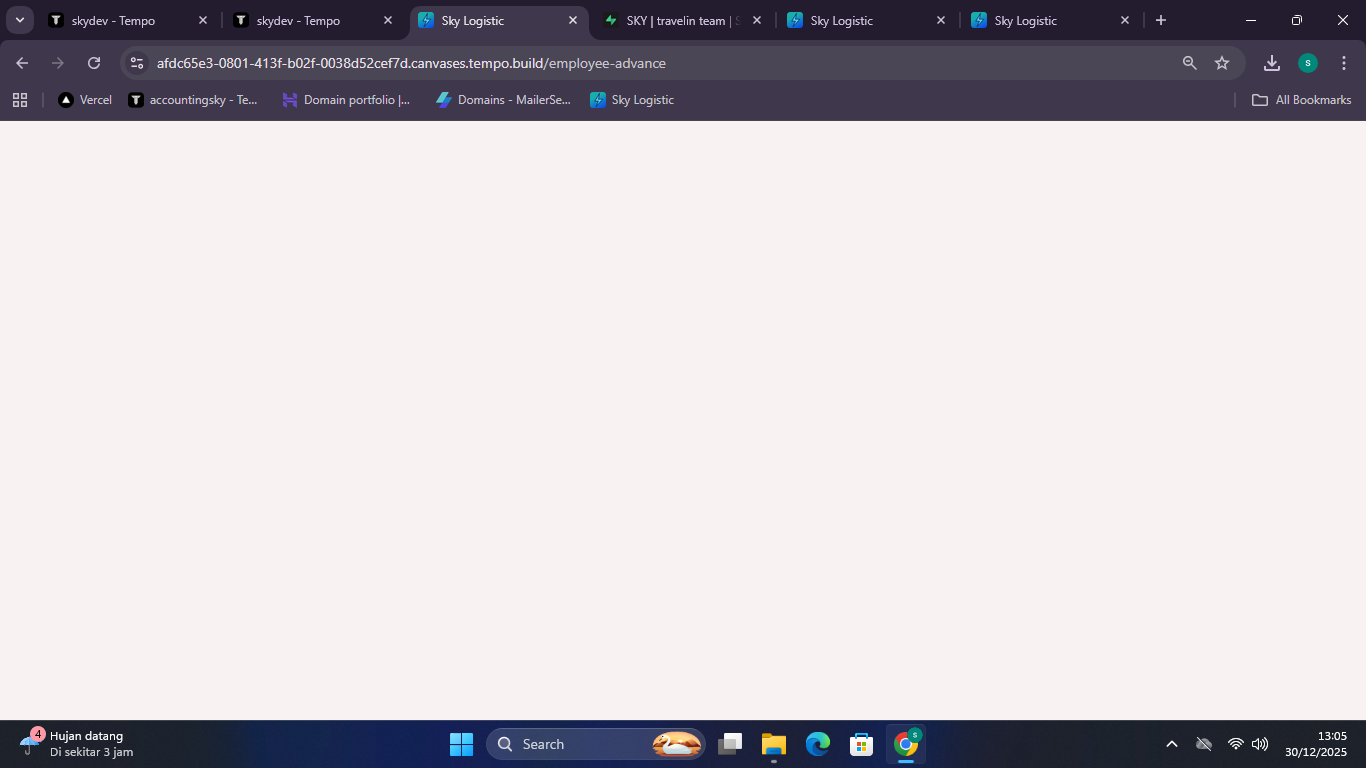
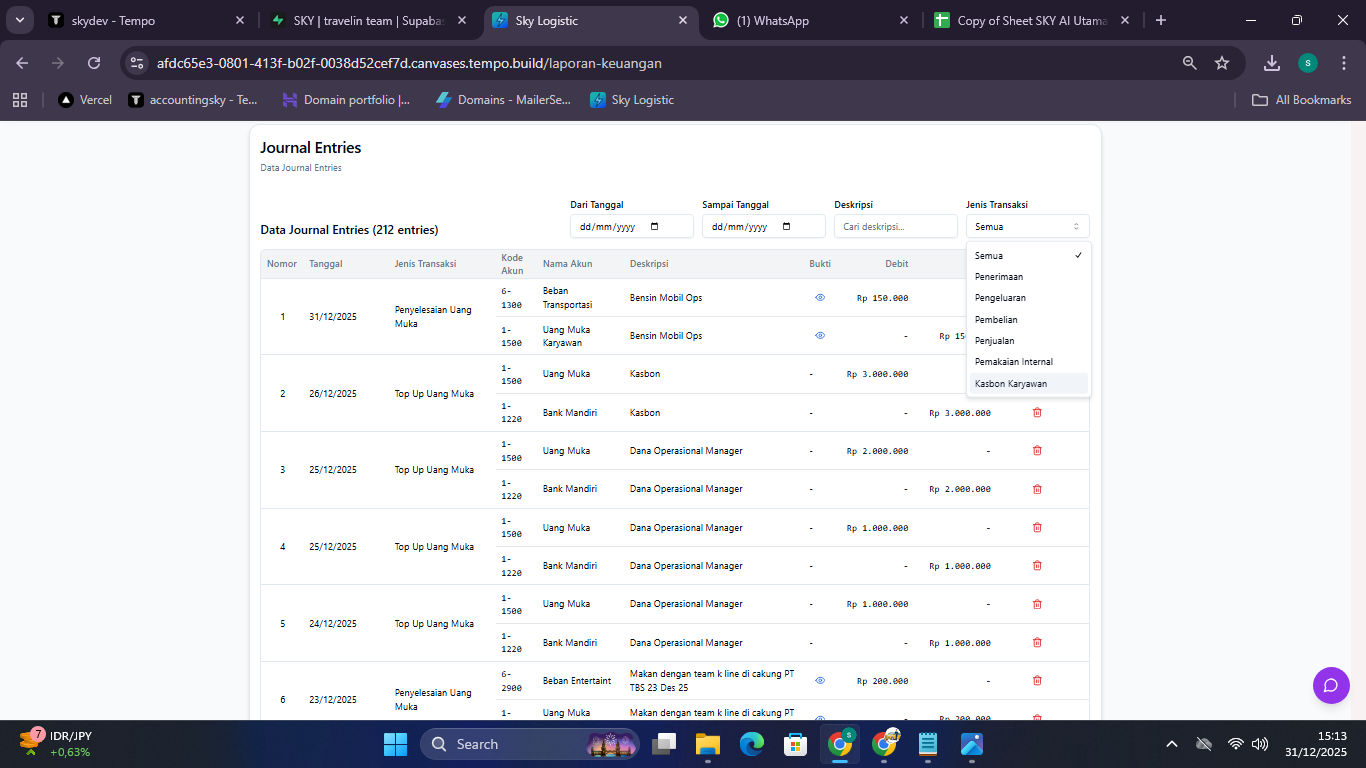
Rafi 31/12/2025 15:17

diff --git a/src/components/IntegratedFinancialReport.tsx b/src/components/IntegratedFinancialReport.tsx
@@ -101,6 +101,7 @@ export default function IntegratedFinancialReport() {
   const [journalStartDate, setJournalStartDate] = useState<string>("");
   const [journalEndDate, setJournalEndDate] = useState<string>("");
   const [journalDescriptionQuery, setJournalDescriptionQuery] = useState<string>("");
+  const [journalJenisTransaksi, setJournalJenisTransaksi] = useState<string>("ALL");
   const navigate = useNavigate();
 
   useEffect(() => {
@@ -116,7 +117,7 @@ export default function IntegratedFinancialReport() {
   useEffect(() => {
     fetchJournalEntries();
     // eslint-disable-next-line react-hooks/exhaustive-deps
-  }, [journalStartDate, journalEndDate]);
+  }, [journalStartDate, journalEndDate, journalJenisTransaksi]);
 
   const fetchReportData = async () => {
     setLoading(true);
@@ -356,7 +357,16 @@ export default function IntegratedFinancialReport() {
           };
         }) || [];
 
-      setJournalEntries(enrichedEntries);
+      const filteredByJenis =
+        journalJenisTransaksi === "ALL"
+          ? enrichedEntries
+          : enrichedEntries.filter(
+              (e: any) =>
+                (e.transaction_type || e.jenis_transaksi || "-") ===
+                journalJenisTransaksi,
+            );
+
+      setJournalEntries(filteredByJenis);
     } catch (err) {
       toast({
         title: "Error",
@@ -781,7 +791,7 @@ export default function IntegratedFinancialReport() {
                   Data Journal Entries ({journalEntries.length} entries)
                 </h3>
 
-                <div className="grid grid-cols-1 gap-3 sm:grid-cols-3">
+                <div className="grid grid-cols-1 gap-3 sm:grid-cols-4">
                   <div className="space-y-1">
                     <Label htmlFor="journalStartDate">Dari Tanggal</Label>
                     <Input
@@ -813,6 +823,30 @@ export default function IntegratedFinancialReport() {
                       className="h-9"
                     />
                   </div>
+
+                  <div className="space-y-1">
+                    <Label htmlFor="journalJenisTransaksi">Jenis Transaksi</Label>
+                    <Select
+                      value={journalJenisTransaksi}
+                      onValueChange={(v) => setJournalJenisTransaksi(v)}
+                    >
+                      <SelectTrigger id="journalJenisTransaksi" className="h-9">
+                        <SelectValue placeholder="Semua" />
+                      </SelectTrigger>
+                      <SelectContent>
+                        <SelectItem value="ALL">Semua</SelectItem>
+                        <SelectItem value="Penerimaan">Penerimaan</SelectItem>
+                        <SelectItem value="Pengeluaran">Pengeluaran</SelectItem>
+                        <SelectItem value="Pembelian">Pembelian</SelectItem>
+                        <SelectItem value="Penjualan">Penjualan</SelectItem>
+                        <SelectItem value="Pemakaian Internal">Pemakaian Internal</SelectItem>
+                        <SelectItem value="Kasbon Karyawan">Kasbon Karyawan</SelectItem>
+                        <SelectItem value="Uang Muka">Uang Muka</SelectItem>
+                        <SelectItem value="Top Up Uang Muka">Top Up Uang Muka</SelectItem>
+                        <SelectItem value="Penyelesaian Uang Muka">Penyelesaian Uang Muka</SelectItem>
+                      </SelectContent>
+                    </Select>
+                  </div>
                 </div>
               </div>
 
@@ -820,6 +854,7 @@ export default function IntegratedFinancialReport() {
                 <Table>
                   <TableHeader>
                     <TableRow className="bg-gray-100">
+                      <TableHead className="w-16">Nomor</TableHead>
                       <TableHead className="w-32">Tanggal</TableHead>
                       <TableHead className="w-40">Jenis Transaksi</TableHead>
                       <TableHead>Kode Akun</TableHead>
@@ -835,7 +870,7 @@ export default function IntegratedFinancialReport() {
                     {journalEntries.length === 0 ? (
                       <TableRow>
                         <TableCell
-                          colSpan={9}
+                          colSpan={10}
                           className="text-center py-8 text-gray-500"
                         >
                           Tidak ada data
@@ -856,7 +891,7 @@ export default function IntegratedFinancialReport() {
                             acc[key].push(entry);
                             return acc;
                           }, {}),
-                      ).flatMap(([ref, entries]) =>
+                      ).flatMap(([ref, entries], groupIndex) =>
                         [...entries]
                           .sort((a: any, b: any) => {
                             const aDebit = (a.debit || 0) > 0;
@@ -878,6 +913,11 @@ export default function IntegratedFinancialReport() {
 
                             return (
                               <TableRow key={`${ref}-${entry.id}`} className={idx === 0 ? "border-t-2 border-gray-200" : undefined}>
+                              {isGroupFirstRow && (
+                                <TableCell className="text-sm text-center" rowSpan={groupRowSpan}>
+                                  {groupIndex + 1}
+                                </TableCell>
+                              )}
                               {isGroupFirstRow && (
                                 <TableCell className="text-sm" rowSpan={groupRowSpan}>
                                   {dateVal ? new Date(dateVal).toLocaleDateString("id-ID") : "-"}
@@ -947,7 +987,7 @@ export default function IntegratedFinancialReport() {
                   </TableBody>
                   <tfoot>
                     <TableRow className="bg-gray-50 font-semibold">
-                      <TableCell colSpan={7} className="text-right">
+                      <TableCell colSpan={8} className="text-right">
                         Total
                       </TableCell>
                       <TableCell className="text-right font-mono">

diff --git a/src/components/TransaksiKeuanganForm.tsx b/src/components/TransaksiKeuanganForm.tsx
@@ -580,6 +580,7 @@ export default function TransaksiKeuanganForm() {
 
   // New fields for item selection
   const [transactionItemType, setTransactionItemType] = useState(""); // "Barang" or "Jasa"
+  const [isJasaLini2, setIsJasaLini2] = useState(false);
   const [stockItems, setStockItems] = useState<any[]>([]);
   const [serviceItems, setServiceItems] = useState<any[]>([]);
   const [selectedItemId, setSelectedItemId] = useState("");
@@ -9217,34 +9218,51 @@ export default function TransaksiKeuanganForm() {
                       <Label htmlFor="transaction_item_type">
                         Tipe Item Transaksi *
                       </Label>
-                      <Select
-                        value={transactionItemType}
-                        onValueChange={(value) => {
-                          setTransactionItemType(value);
-                          setSelectedItemId("");
-                          setItemPrice(0);
-                          setItemQty(1);
-                          // Reset Item Penjualan fields
-                          setSalesItems([{
-                            id: crypto.randomUUID(),
-                            itemName: "",
-                            jenisBarang: "",
-                            quantity: "1",
-                            nominal: "0",
-                            stockId: "",
-                            sellingPrice: 0,
-                            tipeItem: value
-                          }]);
-                        }}
-                      >
-                        <SelectTrigger id="transaction_item_type">
-                          <SelectValue placeholder="-- pilih tipe item --" />
-                        </SelectTrigger>
-                        <SelectContent>
-                          <SelectItem value="Barang">Barang</SelectItem>
-                          <SelectItem value="Jasa">Jasa</SelectItem>
-                        </SelectContent>
-                      </Select>
+                      <div className="flex items-start gap-4">
+                        <div className="flex-1">
+                          <Select
+                            value={transactionItemType}
+                            onValueChange={(value) => {
+                              setTransactionItemType(value);
+                              setIsJasaLini2(false);
+                              setSelectedItemId("");
+                              setItemPrice(0);
+                              setItemQty(1);
+                              // Reset Item Penjualan fields
+                              setSalesItems([{
+                                id: crypto.randomUUID(),
+                                itemName: "",
+                                jenisBarang: "",
+                                quantity: "1",
+                                nominal: "0",
+                                stockId: "",
+                                sellingPrice: 0,
+                                tipeItem: value
+                              }]);
+                            }}
+                          >
+                            <SelectTrigger id="transaction_item_type">
+                              <SelectValue placeholder="-- pilih tipe item --" />
+                            </SelectTrigger>
+                            <SelectContent>
+                              <SelectItem value="Barang">Barang</SelectItem>
+                              <SelectItem value="Jasa">Jasa</SelectItem>
+                            </SelectContent>
+                          </Select>
+                        </div>
+
+                        {jenisTransaksi === "Penjualan" && transactionItemType === "Jasa" && (
+                          <label className="flex items-center gap-2 pt-2 select-none">
+                            <input
+                              type="radio"
+                              name="jasa_mode"
+                              checked={isJasaLini2}
+                              onChange={() => setIsJasaLini2(true)}
+                            />
+                            <span className="text-sm">Jasa Lini 2</span>
+                          </label>
+                        )}
+                      </div>
                     </div>
                   </div>
 
@@ -10401,7 +10419,7 @@ export default function TransaksiKeuanganForm() {
               )}
 
               {/* QUANTITY & HARGA JUAL - Only for Penjualan */}
-              {jenisTransaksi === "Penjualan" && (
+              {jenisTransaksi === "Penjualan" && !isJasaLini2 && (
                 <div className="space-y-4">
                   {/* Multiple Items Section */}
                   <div className="border rounded-lg p-4 space-y-4">

diff --git a/src/types/supabase.ts b/src/types/supabase.ts
@@ -4058,6 +4058,7 @@ export type Database = {
           debit_account_name: string | null
           id: string
           journal_entry_id: string | null
+          journal_ref: string | null
           notes: string | null
           payment_method: string | null
           return_date: string
@@ -4075,6 +4076,7 @@ export type Database = {
           debit_account_name?: string | null
           id?: string
           journal_entry_id?: string | null
+          journal_ref?: string | null
           notes?: string | null
           payment_method?: string | null
           return_date?: string
@@ -4092,6 +4094,7 @@ export type Database = {
           debit_account_name?: string | null
           id?: string
           journal_entry_id?: string | null
+          journal_ref?: string | null
           notes?: string | null
           payment_method?: string | null
           return_date?: string
@@ -4201,20 +4204,6 @@ export type Database = {
         }
         Relationships: [
           {
-            foreignKeyName: "employee_advance_settlements_advance_id_fkey"
-            columns: ["advance_id"]
-            isOneToOne: false
-            referencedRelation: "employee_advances"
-            referencedColumns: ["id"]
-          },
-          {
-            foreignKeyName: "employee_advance_settlements_advance_id_fkey"
-            columns: ["advance_id"]
-            isOneToOne: false
-            referencedRelation: "vw_employee_advance_summary"
-            referencedColumns: ["id"]
-          },
-          {
             foreignKeyName: "employee_advance_settlements_created_by_fkey"
             columns: ["created_by"]
             isOneToOne: false
@@ -4257,6 +4246,7 @@ export type Database = {
           remaining_balance: number
           source_mutation_id: string | null
           status: string
+          total_saldo: number | null
           transaction_date: string | null
           transaction_direction: string | null
           updated_at: string | null
@@ -4294,6 +4284,7 @@ export type Database = {
           remaining_balance: number
           source_mutation_id?: string | null
           status?: string
+          total_saldo?: number | null
           transaction_date?: string | null
           transaction_direction?: string | null
           updated_at?: string | null
@@ -4331,6 +4322,7 @@ export type Database = {
           remaining_balance?: number
           source_mutation_id?: string | null
           status?: string
+          total_saldo?: number | null
           transaction_date?: string | null
           transaction_direction?: string | null
           updated_at?: string | null
@@ -12820,6 +12812,10 @@ export type Database = {
       }
       create_monthly_tax_reminders: { Args: never; Returns: undefined }
       embedding_coa_match: { Args: { p_text: string }; Returns: Json }
+      employee_advances_set_remaining_balance_manual: {
+        Args: { p_advance_id: string; p_remaining_balance: number }
+        Returns: undefined
+      }
       execute_sql: { Args: { query: string }; Returns: Json }
       extract_keywords: { Args: { p_text: string }; Returns: string[] }
       fn_check_large_transactions: { Args: never; Returns: undefined }
@@ -13194,6 +13190,10 @@ export type Database = {
       }
       process_mutation_to_transaction: {
         Args: { p_mutation_id: string }
+        Returns: undefined
+      }
+      rebuild_employee_advances_remaining_balance: {
+        Args: never
         Returns: undefined
       }
       rebuild_general_ledger: { Args: never; Returns: undefined }

diff --git a/src/components/EmployeeAdvanceForm.tsx b/src/components/EmployeeAdvanceForm.tsx
@@ -452,17 +452,21 @@ export default function EmployeeAdvanceForm() {
       // - For new: use selected employee_id
       const targetAdvanceId = (advanceForm as any).topup_advance_id || null;
 
-      const { data: existingAdvances, error: fetchError } = await supabase
-        .from("employee_advances")
-        .select("id, amount, remaining_balance, notes")
-        .eq(
-          "id",
-          advanceForm.mode === "topup" && targetAdvanceId ? targetAdvanceId : "__no_match__",
-        )
-        .single();
+      let existingAdvances: any = null;
 
-      if (fetchError && fetchError.code !== "PGRST116") {
-        throw fetchError;
+      if (advanceForm.mode === "topup") {
+        if (!targetAdvanceId) {
+          throw new Error("Pilih No. Uang Muka yang akan di-top up");
+        }
+
+        const { data, error: fetchError } = await supabase
+          .from("employee_advances")
+          .select("id, total_saldo, remaining_balance, notes")
+          .eq("id", targetAdvanceId)
+          .single();
+
+        if (fetchError) throw fetchError;
+        existingAdvances = data;
       }
 
       if (existingAdvances && advanceForm.mode === "topup") {
@@ -471,7 +475,7 @@ export default function EmployeeAdvanceForm() {
           description: "Menambahkan saldo ke uang muka yang masih aktif",
         });
 
-        const newAmount = existingAdvances.amount + advanceForm.amount;
+        const newAmount = (existingAdvances.total_saldo ?? existingAdvances.amount) + advanceForm.amount;
         const newRemainingBalance = existingAdvances.remaining_balance + advanceForm.amount;
         const existingNotes = existingAdvances.notes || "";
 
@@ -508,11 +512,8 @@ export default function EmployeeAdvanceForm() {
         const { error: updateError } = await supabase
           .from("employee_advances")
           .update({
-            amount: newAmount,
+            total_saldo: newAmount,
             remaining_balance: newRemainingBalance,
-            notes:
-              (existingNotes ? existingNotes + "\n" : "") +
-              `[${new Date().toLocaleDateString()}] Penambahan: Rp ${advanceForm.amount.toLocaleString()} - ${advanceForm.notes || "No notes"}`,
           })
           .eq("id", existingAdvances.id);
 
@@ -553,6 +554,7 @@ export default function EmployeeAdvanceForm() {
             employee_name: advanceForm.employee_name,
             advance_number: tempAdvanceNumber,
             amount: advanceForm.amount,
+            total_saldo: advanceForm.amount,
             remaining_balance: advanceForm.amount,
             advance_date: advanceForm.advance_date,
             notes: advanceForm.notes,
